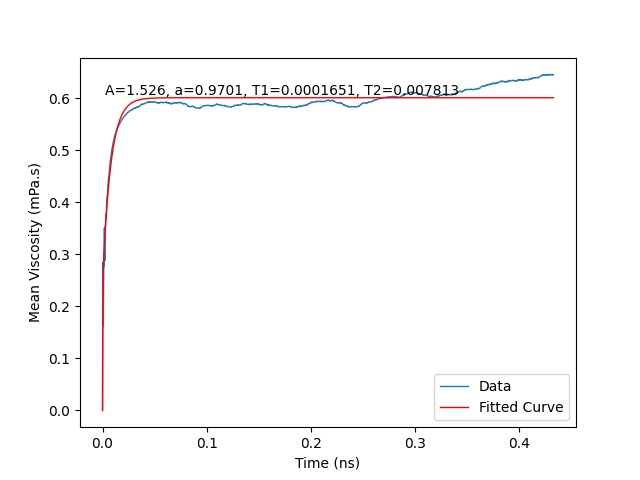
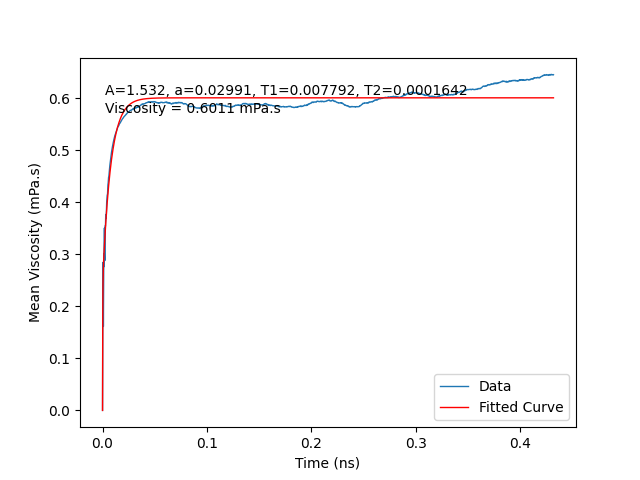
last modify

Changed region(s): [[0.1562, 0.1562, 0.8438, 0.25], [0.7812, 0.9062, 0.8438, 0.9375], [0.625, 0.9062, 0.6875, 0.9375]]

diff --git a/Toluene Viscosity/generate_visc_data_all_files.py b/Toluene Viscosity/generate_visc_data_all_files.py
@@ -1,0 +1,28 @@
+import os
+import subprocess
+
+# Define the directory containing the CSV files
+input_dir = "NVT_Trajectories"
+
+# List all relevant files
+csv_files = [f for f in os.listdir(input_dir) if f.startswith("NVT") and f.endswith("_stress_tensor.csv")]
+
+# Loop through each file and execute viscosityCalculation.py
+ct = 1
+for csv_file in csv_files:
+    if(ct < 32):
+        ct += 1
+        continue
+    input_path = os.path.join(input_dir, csv_file)
+    output_dir = os.path.splitext(csv_file)[0] + "_data"  # Create output directory name
+    os.makedirs(output_dir, exist_ok=True)
+
+    # Define the command to run the script
+    command = [
+        "python", "viscosity_calculation.py", input_path,
+        "-s", "1000001", "-t", "0.002", "-T", "298", "-v", "141930.7610", "-u", "GPa", "-p"
+    ]
+
+    # Run the script
+    subprocess.run(command, check=True)
+    print(f"Processed: {csv_file}")

diff --git a/Toluene Viscosity/double_exp_fit_avgvisc.py b/Toluene Viscosity/double_exp_fit_avgvisc.py
@@ -24,6 +24,8 @@ print(f"a = {params[1]}")
 print(f"T1 = {params[2]}")
 print(f"T2 = {params[3]}")
 
+visc_at_tcut = double_exponential(time[-1], *params)*1000
+plt.text(0.05, 0.85, f"Viscosity = {visc_at_tcut:.4g} mPa.s", transform=plt.gca().transAxes, fontsize=10)
 plt.plot(time, visc*1000, label="Data", linewidth=1)
 plt.plot(time, double_exponential(time, *params) * 1000, color="red", label="Fitted Curve", linewidth=1)
 plt.text(0.05, 0.9, f"A={params[0]:.4g}, a={params[1]:.4g}, T1={params[2]:.4g}, T2={params[3]:.4g}", transform=plt.gca().transAxes, fontsize=10)

diff --git a/Toluene Viscosity/README.md b/Toluene Viscosity/README.md
@@ -1,3 +1,52 @@
+# Prologue
+This repository will help you to know **step by step** process for calculating **Viscosity** of any System using **Materials Studio** software, in this example we are calculating **Viscosity** for Toluene System.
+
+---
+## Here is the Step by Step Procedure
+
+**1.** First we requiring **Stress Tensor Data** files for **Toluene** system. (*given below in the **Trajectory Files** section*)
+
+***Note:** For knowing step by step procedure of generating *Stress Tensor Files* see **Additional Resources** section*
+
+**2.** Save all **trajectory files** in one directory *namely* **NVT_Trajectories** and keep all python files present in **Toluene Viscosity** directory and **NVT_Trajectories** in same directory.
+
+*Name and description of each python files is given in **Source Code** Section*
+
+**4.** Run python files in given below order :
+
+    1. generate_visc_data_all_files.py
+    2. calculate_avg_max_min.py
+**5.** Now for plotting graphs you have use these files:
+
+    plot_visc_trajs.py
+    plot_avg_max_min_visc.py
+    standard_deviation.py
+**6.** For know final viscosity after double exponant fitting, run these files:
+
+    t_cut.py
+    double_exp_fit_avgvisc.py
+
+
+
+___
+
+## Source code
+
+|Files|Description|
+|--------|--------|
+|generate_visc_data_all_files.py| For generating Viscosity Data files of all trajectories|
+|calculate_avg_max_min.py|Calculating mean, maximum and minimum of Viscosity of all trajectories and store them into a seperate csv file|
+|plot_visc_trajs.py|Plots Viscosity vs Time of all trajectories in one graph|
+|    plot_avg_max_min_visc.py|Plot average, maxima and minima of viscosity vs time off all trajectories|
+|    standard_deviation.py|Calculates Standard Deviation of all trajectories with time and saves in a csv file|
+|    t_cut.py| For finding *cut* time *<sub>\*</sub> see Litrature section to know about t<sub>cut</sub>*
+|    fit_std_power_law.py|For Power law fitting of Standard Deviation|
+|    double_exp_fit_avgvisc.py| For Double Exponant fitting of average viscosity|
+
+---
+---
+
+
 ## 📁 Trajectory File
 
 You can download the **trajectory files** directly using the link below:
@@ -5,6 +54,7 @@ You can download the **trajectory files** directly using the link below:
 <a href="https://csciitd-my.sharepoint.com/:f:/g/personal/ch1221465_iitd_ac_in/EvSWEVYWOmBPv91TLEd67usB1UzTbYdoceb69zjKFuTcWQ?e=g441mY" target="_blank" rel="noopener noreferrer">Download Trajectory Files</a>
 
 ---
+
 
 ## 📂 Additional Resources
 

diff --git a/README.md b/README.md
@@ -1,1 +1,2 @@
-# Molecular-Dynamic-Simulation
+# Molecular Dynamic Simulation procedures
+## 1. Viscosity calculation of Toluene
